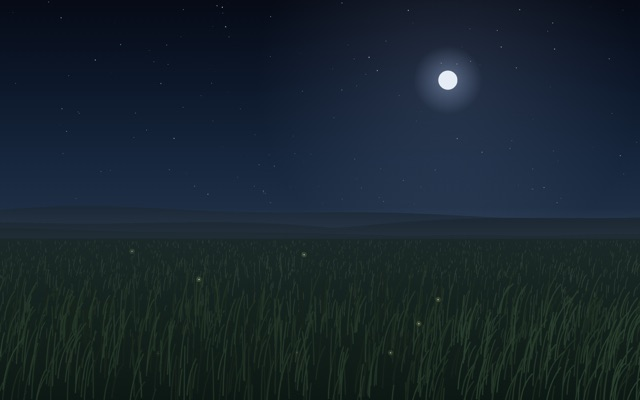
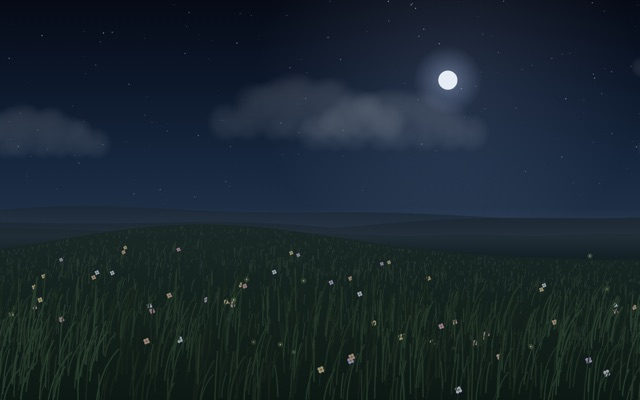
Breeze: a hill of grass and flowers under drifting clouds
The field becomes a hill rising to the left, with flowers among the grass that
bend with the same gusts, each colour filled once for all its flowers, and soft
clouds drawn once and only moved each frame, faint by moonlight. The posters
follow the new scene.

Claude-Session: https://claude.ai/code/session_01KiTahFAuY36gWxVkuonbmo

diff --git a/source/client/assets/wallpapers/breeze.html b/source/client/assets/wallpapers/breeze.html
@@ -14,7 +14,8 @@
 <body>
 <canvas id="field"></canvas>
 <script>
-// A calm field under a low sun: wind passes over the grass in gusts, a few birds glide across.
+// A calm hill under a low sun: wind passes over the grass and its flowers in gusts, clouds drift,
+// and a few birds glide across.
 // By night the sun becomes a moon, the birds rest, and a few fireflies rise from the grass. The
 // Theme comes from the address, ?theme=light or ?theme=dark, as the Desktop opens the page.
 // Light on purpose: at most 30 frames a second, the sky drawn once and kept, blades of one
@@ -28,7 +29,8 @@
     hills: ["#b9c6b4", "#9fb595", "#88a67a"],
     field: ["#9fb377", "#7a9850", "#577a36"],
     grass: [[82, 28, 54], [86, 32, 44], [90, 36, 33]],
-    bird: "rgba(52, 60, 58, 0.62)", star: 0
+    bird: "rgba(52, 60, 58, 0.62)", star: 0,
+    petals: ["#ffffff", "#ffd166", "#ff8fa3", "#c8b6ff", "#ffb38a"], heart: "#f2b544", stem: "#4f7a34", cloud: 0.92
   }
   var NIGHT = {
     sky: ["#060b16", "#0c1729", "#16263c", "#22344a"],
@@ -36,7 +38,8 @@
     hills: ["#1c2a38", "#17242e", "#132026"],
     field: ["#1a2827", "#13211d", "#0c1814"],
     grass: [[150, 14, 19], [142, 18, 15], [134, 22, 11]],
-    bird: "rgba(0, 0, 0, 0)", star: 1
+    bird: "rgba(0, 0, 0, 0)", star: 1,
+    petals: ["#9aa3b8", "#9a9172", "#9a7889", "#8a83a8", "#9a8476"], heart: "#6e6440", stem: "#1e3326", cloud: 0.12
   }
 
   var canvas = document.getElementById("field")
@@ -45,7 +48,7 @@
   var skyCtx = sky.getContext("2d", { alpha: false })
 
   var W = 0, H = 0, DPR = 1, horizon = 0
-  var layers = [], birds = [], fireflies = [], stars = []
+  var layers = [], birds = [], fireflies = [], stars = [], flowers = [], clouds = [], cloudShapes = []
   var birdWait = 4
 
   // The Desktop names the Theme it shows the page in; opened on its own, the page follows the browser.
@@ -69,6 +72,38 @@
     return (Math.sin(u * 2.3 + seed) * 0.5 + Math.sin(u * 5.1 + seed * 2.7) * 0.28 + Math.sin(u * 11.7 + seed * 1.3) * 0.12) * height
   }
 
+  // The near hill: it rises gently toward the left of the field and falls away to the right.
+  function hillAt(x) {
+    var u = x / W
+    return horizon + H * (0.07 - 0.12 * Math.exp(-Math.pow((u - 0.3) / 0.34, 2)) + 0.015 * Math.sin(u * 4.1 + 0.8))
+  }
+  // Where something at a depth from 0 (the crest) to 1 (the foot of the screen) stands at x.
+  function groundAt(x, depth) {
+    var top = hillAt(x)
+    return top + Math.pow(depth, 1.4) * (H - top) + 6
+  }
+
+  // A soft cloud, drawn once from overlapping puffs; each frame only moves it.
+  function cloudShape() {
+    var shape = document.createElement("canvas"), w = 420, h = 150
+    shape.width = w; shape.height = h
+    var g = shape.getContext("2d")
+    // A flat base of low puffs, then a crown of larger ones rising toward the middle, all touching.
+    for (var b = 0; b < 8; b++) {
+      var bx = 70 + b * 40 + random(-6, 6), base = g.createRadialGradient(bx, 108, 0, bx, 108, 34)
+      base.addColorStop(0, "rgba(255,255,255,0.75)"); base.addColorStop(0.6, "rgba(255,255,255,0.45)"); base.addColorStop(1, "rgba(255,255,255,0)")
+      g.fillStyle = base; g.beginPath(); g.arc(bx, 108, 34, 0, 6.283); g.fill()
+    }
+    for (var i = 0; i < 9; i++) {
+      var along = 0.18 + (i / 8) * 0.64 + random(-0.03, 0.03), px = 60 + along * 300, rise = Math.sin(along * Math.PI)
+      var py = 100 - rise * 34 + random(-4, 4), r = random(34, 46) * (0.6 + 0.4 * rise)
+      var puff = g.createRadialGradient(px, py, 0, px, py, r)
+      puff.addColorStop(0, "rgba(255,255,255,0.8)"); puff.addColorStop(0.55, "rgba(255,255,255,0.5)"); puff.addColorStop(1, "rgba(255,255,255,0)")
+      g.fillStyle = puff; g.beginPath(); g.arc(px, py, r, 0, 6.283); g.fill()
+    }
+    return shape
+  }
+
   function build() {
     var area = W * H
     // Each layer: depth (0 far, 1 near), blade count, height range, stroke width, wind reach.
@@ -84,9 +119,10 @@
       for (var i = 0; i < count; i++) {
         var depth = random(p.from, p.to)
         var scale = 0.55 + depth * 0.6
+        var bx = random(-20, W + 20)
         blades.push({
-          x: random(-20, W + 20),
-          y: horizon + Math.pow(depth, 1.4) * (H - horizon) + 6,
+          x: bx,
+          y: groundAt(bx, depth),
           h: random(p.h[0], p.h[1]) * scale,
           lean: random(-0.18, 0.18),
           phase: random(0, 6.283), flutter: random(1.2, 2.4),
@@ -100,7 +136,15 @@
     stars = []
     for (var s = 0; s < Math.floor(W / 9); s++) stars.push({ x: random(0, W), y: random(0, horizon * 0.85), r: random(0.4, 1.3), a: random(0.25, 0.9) })
     fireflies = []
-    for (var f = 0; f < 18; f++) fireflies.push({ x: random(0, W), y: random(horizon + 10, H * 0.92), phase: random(0, 6.283), speed: random(0.15, 0.4), dx: random(-8, 8) })
+    for (var f = 0; f < 18; f++) { var fx = random(0, W); fireflies.push({ x: fx, y: random(hillAt(fx) + 10, H * 0.92), phase: random(0, 6.283), speed: random(0.15, 0.4), dx: random(-8, 8) }) }
+    flowers = []
+    for (var k = 0; k < Math.floor(W / 26 * budget); k++) {
+      var depthOf = random(0.25, 1), at = random(0, W)
+      flowers.push({ x: at, y: groundAt(at, depthOf), h: random(16, 38) * (0.6 + depthOf * 0.8), size: 1.8 + depthOf * 3, hue: Math.floor(random(0, 5)), phase: random(0, 6.283) })
+    }
+    if (cloudShapes.length === 0) for (var c = 0; c < 3; c++) cloudShapes.push(cloudShape())
+    clouds = []
+    for (var n = 0; n < 5; n++) clouds.push({ x: random(-200, W), y: random(H * 0.05, H * 0.3), scale: random(0.7, 1.35), speed: random(W / 420, W / 220), shape: cloudShapes[n % 3] })
   }
 
   // The sky, the sun or moon, the hills and the ground under the grass: drawn once per size and
@@ -129,7 +173,7 @@
     }
 
     // The sun sits low, just above the hills; the moon rides higher.
-    var sx = W * 0.7, sy = mix(horizon - H * 0.06, H * 0.2, t)
+    var sx = W * 0.7, sy = mix(horizon - H * 0.09, H * 0.2, t)
     var light = [mix(DAY.glow[0], NIGHT.glow[0], t), mix(DAY.glow[1], NIGHT.glow[1], t), mix(DAY.glow[2], NIGHT.glow[2], t)].map(Math.round).join(",")
     var glow = skyCtx.createRadialGradient(sx, sy, 0, sx, sy, Math.max(W, H) * mix(0.55, 0.3, t))
     glow.addColorStop(0, "rgba(" + light + "," + mix(0.85, 0.5, t) + ")")
@@ -155,9 +199,12 @@
     haze.addColorStop(1, "rgba(" + light + ",0)")
     skyCtx.fillStyle = haze; skyCtx.fillRect(0, horizon - H * 0.08, W, H * 0.12)
 
-    var ground = skyCtx.createLinearGradient(0, horizon, 0, H)
+    var ground = skyCtx.createLinearGradient(0, horizon - H * 0.06, 0, H)
     for (var f = 0; f < 3; f++) ground.addColorStop(f / 2, color(DAY.field[f], NIGHT.field[f], t))
-    skyCtx.fillStyle = ground; skyCtx.fillRect(0, horizon - 2, W, H - horizon + 2)
+    skyCtx.fillStyle = ground
+    skyCtx.beginPath(); skyCtx.moveTo(0, H)
+    for (var gx = 0; gx <= W + 12; gx += 12) skyCtx.lineTo(gx, hillAt(gx) - 2)
+    skyCtx.lineTo(W, H); skyCtx.closePath(); skyCtx.fill()
   }
 
   // Wind: a slow breath over the whole field, and gusts that travel across it from the left.
@@ -185,6 +232,7 @@
         b.bend = 0.18 + gust * 1.05 + Math.sin(time * b.flutter + b.phase) * 0.07
         b.step = b.shade + Math.round(gust * (1 + layer.tone))
       }
+      if (l === 2) drawFlowers(time)
       ctx.lineWidth = layer.width
       for (var step = 0; step < 8; step++) {
         var any = false
@@ -201,6 +249,49 @@
         if (any) { ctx.strokeStyle = shadeOf(layer.tone, step, night); ctx.stroke() }
       }
     }
+  }
+
+  // Flowers sway with the same gusts; each colour is filled once for all its flowers.
+  function drawFlowers(time) {
+    var t = night
+    for (var i = 0; i < flowers.length; i++) {
+      var f = flowers[i]
+      var sway = (0.15 + gustAt(f.x, time) * 0.9 + Math.sin(time * 1.6 + f.phase) * 0.08) * f.h * 0.42
+      f.tx = f.x + sway; f.ty = f.y - f.h + Math.abs(sway) * 0.2
+    }
+    ctx.lineWidth = 1.2
+    ctx.strokeStyle = color(DAY.stem, NIGHT.stem, t)
+    ctx.beginPath()
+    for (var s = 0; s < flowers.length; s++) { var stem = flowers[s]; ctx.moveTo(stem.x, stem.y); ctx.quadraticCurveTo(stem.x + (stem.tx - stem.x) * 0.2, stem.y - stem.h * 0.6, stem.tx, stem.ty) }
+    ctx.stroke()
+    for (var hue = 0; hue < 5; hue++) {
+      ctx.fillStyle = color(DAY.petals[hue], NIGHT.petals[hue], t)
+      ctx.beginPath()
+      for (var p = 0; p < flowers.length; p++) {
+        var bloom = flowers[p]
+        if (bloom.hue !== hue) continue
+        for (var k = 0; k < 4; k++) {
+          var a = k * 1.5708 + 0.4, px = bloom.tx + Math.cos(a) * bloom.size, py = bloom.ty + Math.sin(a) * bloom.size
+          ctx.moveTo(px + bloom.size * 0.8, py); ctx.arc(px, py, bloom.size * 0.8, 0, 6.283)
+        }
+      }
+      ctx.fill()
+    }
+    ctx.fillStyle = color(DAY.heart, NIGHT.heart, t)
+    ctx.beginPath()
+    for (var c = 0; c < flowers.length; c++) { var heart = flowers[c]; ctx.moveTo(heart.tx + heart.size * 0.6, heart.ty); ctx.arc(heart.tx, heart.ty, heart.size * 0.6, 0, 6.283) }
+    ctx.fill()
+  }
+
+  function drawClouds(dt) {
+    ctx.globalAlpha = mix(DAY.cloud, NIGHT.cloud, night)
+    for (var i = 0; i < clouds.length; i++) {
+      var c = clouds[i], w = 420 * c.scale, h = 150 * c.scale
+      c.x += c.speed * dt
+      if (c.x > W + 40) { c.x = -w - random(0, 200); c.y = random(H * 0.05, H * 0.3) }
+      ctx.drawImage(c.shape, c.x, c.y, w, h)
+    }
+    ctx.globalAlpha = 1
   }
 
   function launchBirds() {
@@ -266,6 +357,7 @@
   function frame(time, dt) {
     paintSky()
     ctx.drawImage(sky, 0, 0, W, H)
+    drawClouds(dt)
     drawBirds(time, dt)
     drawGrass(time)
     drawFireflies(time, dt)
